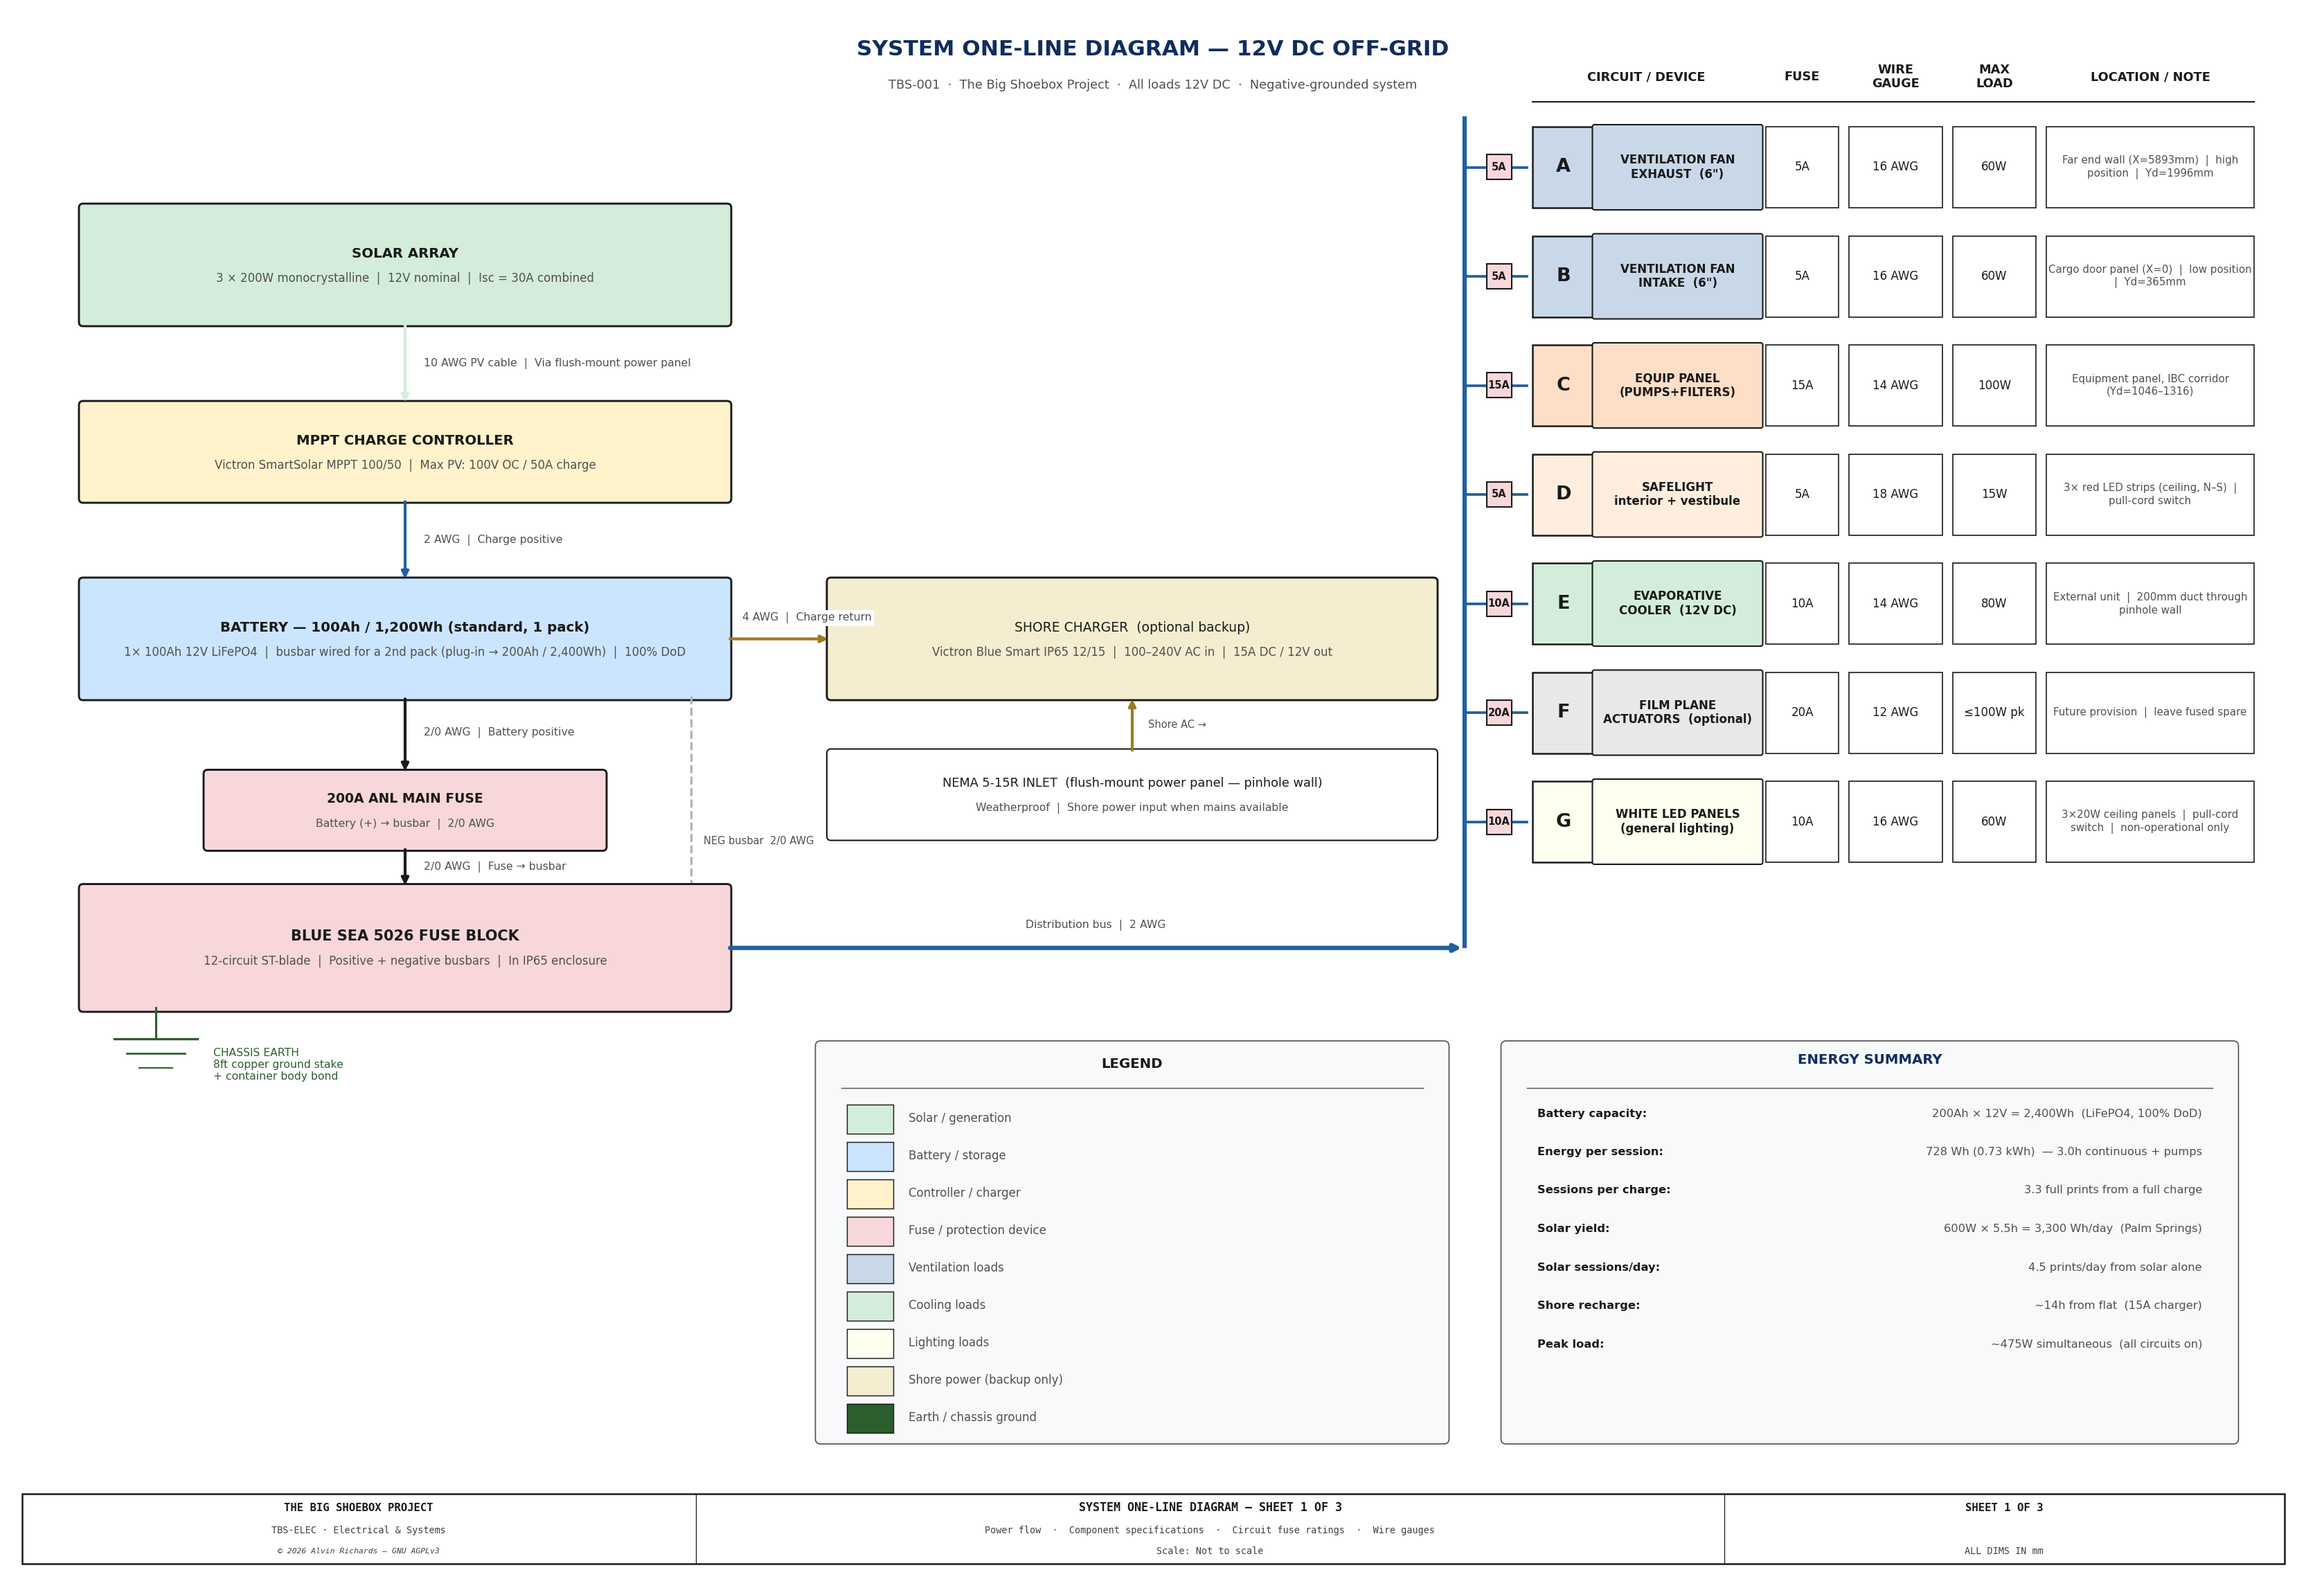
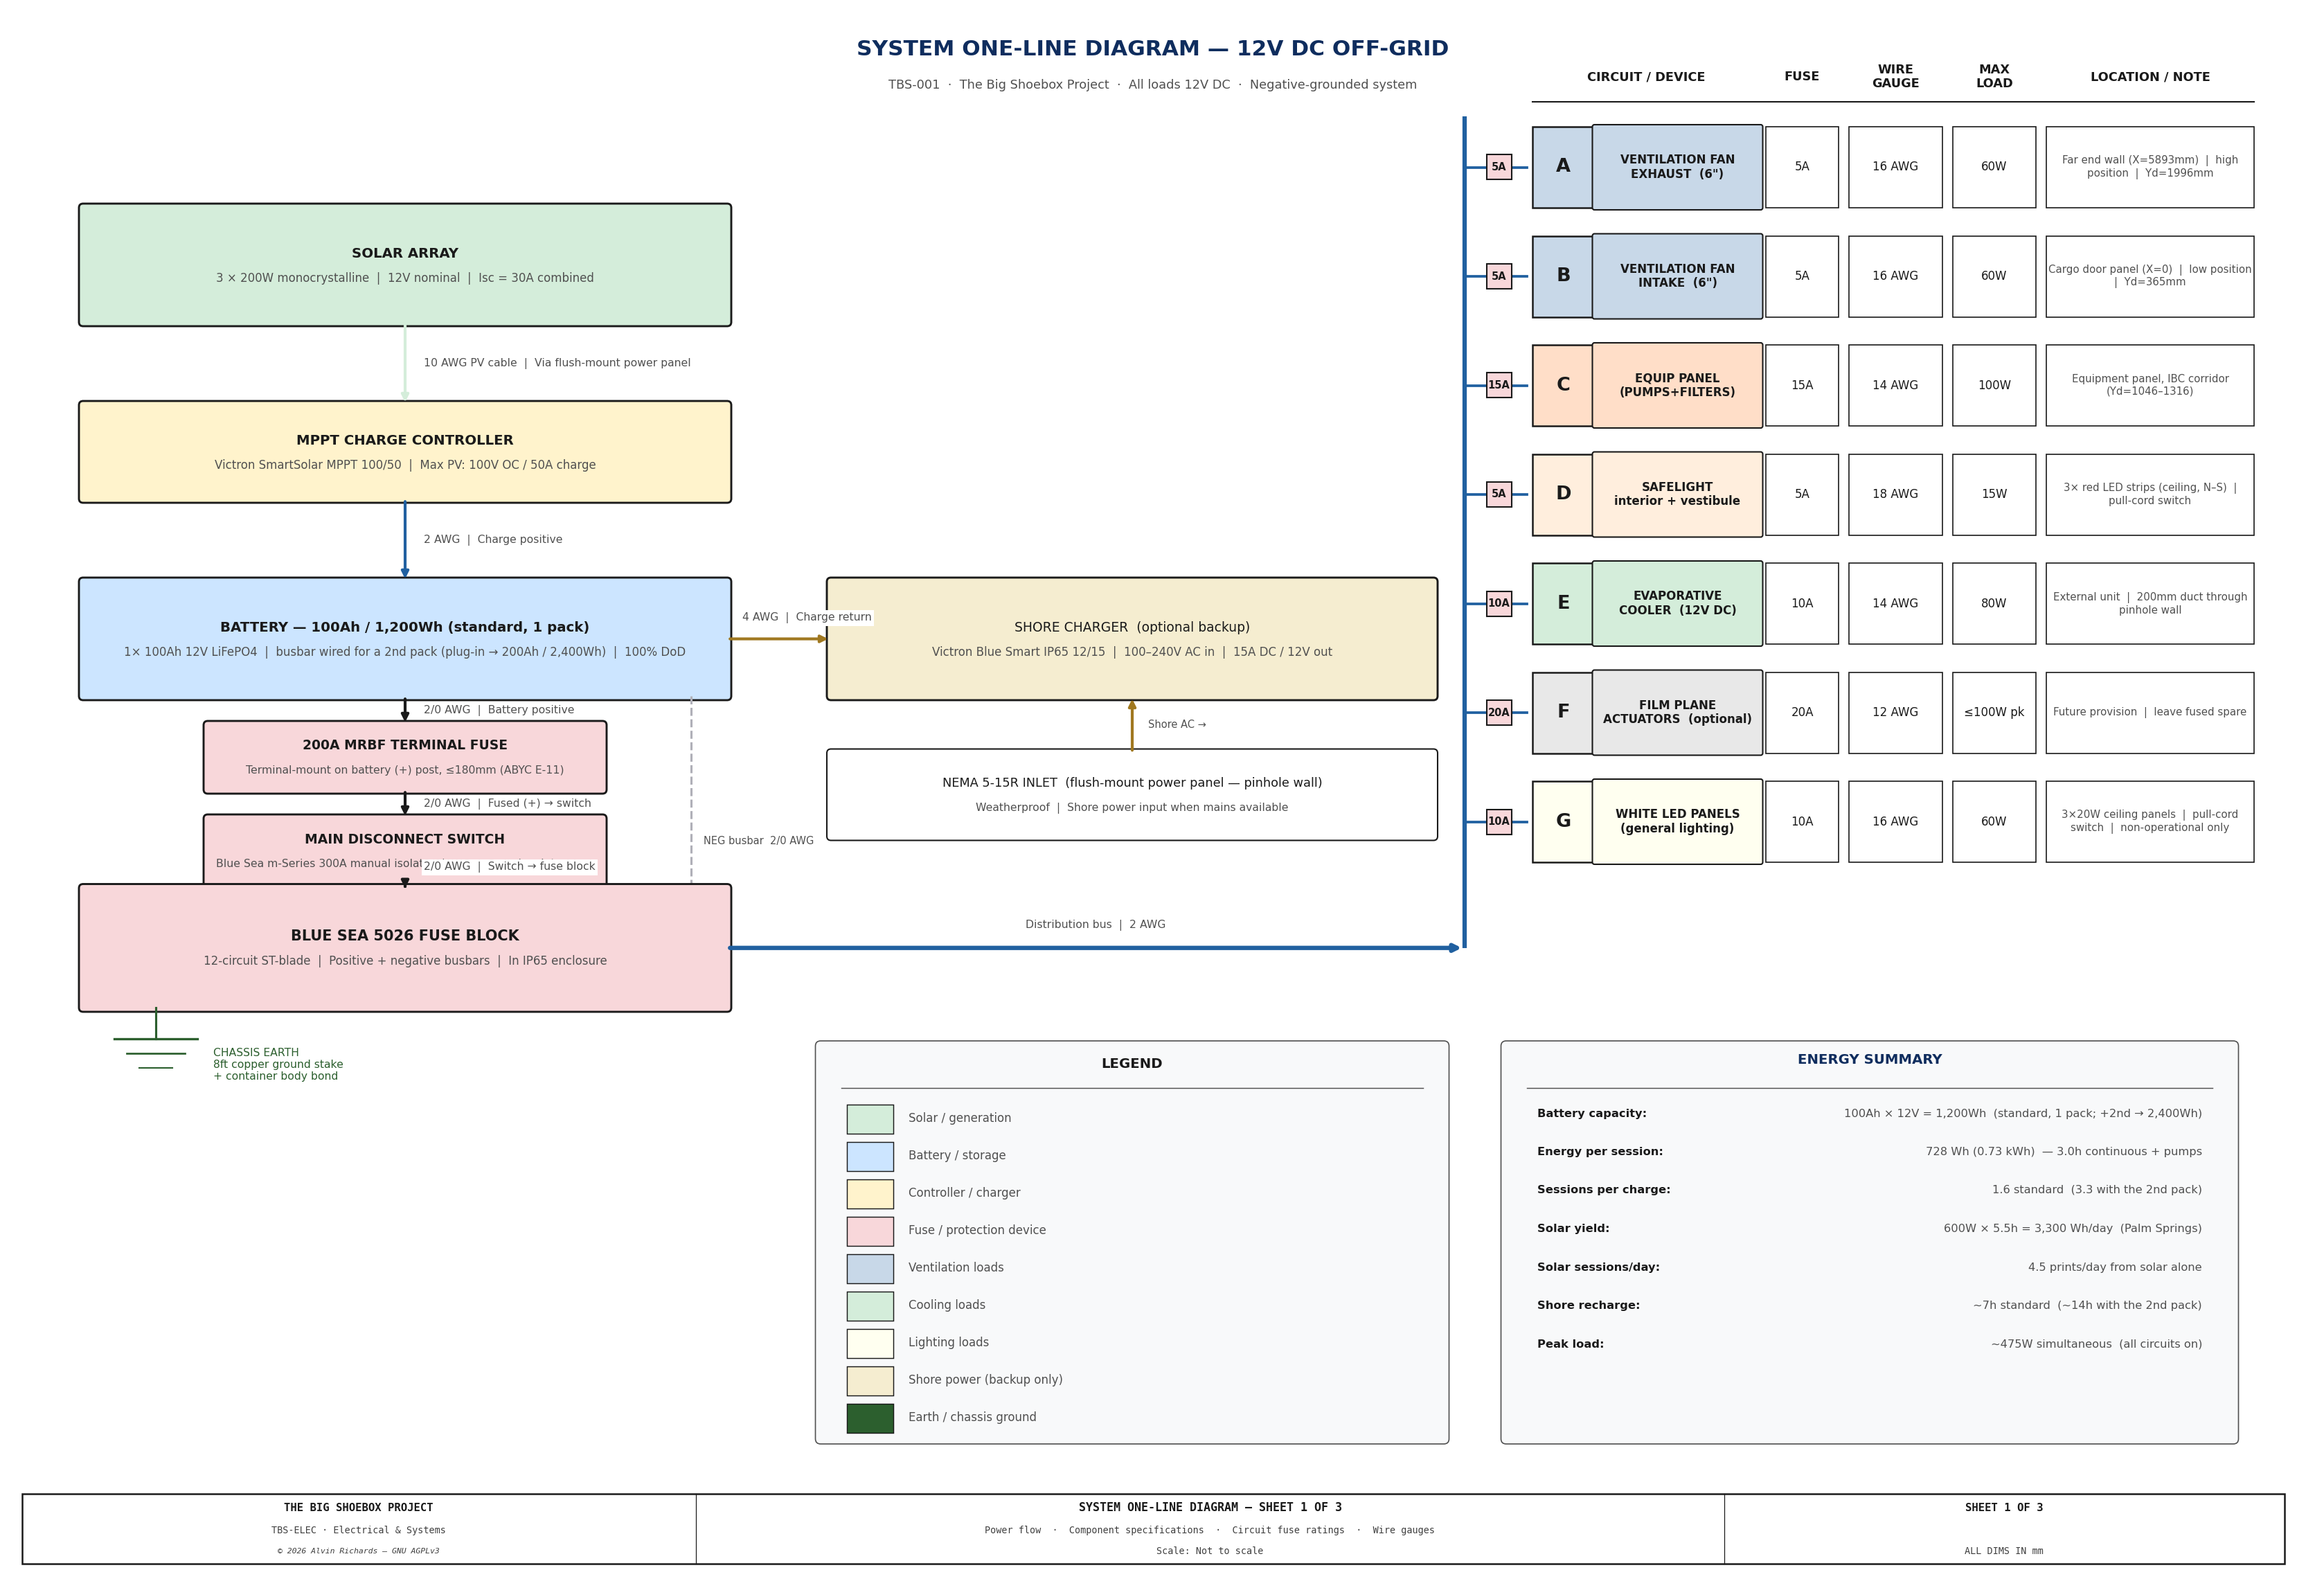
Electrical one-line: ANL main fuse -> MRBF terminal fuse + main disconnect switch
Aligns the one-line diagram with the Electrical Safety Report cascade (the BOM/§7.5
already specced these; the drawing + spec table lagged).

- Battery (+) protection chain redrawn as two stages: 200A MRBF terminal fuse on the
  battery + post (<=180mm, ABYC E-11) -> Blue Sea m-Series 300A main disconnect switch
  -> Blue Sea 5026 fuse block (was a single '200A ANL MAIN FUSE').
- Energy-summary panel de-staled to the 1-pack standard: battery 200Ah/2,400Wh ->
  100Ah/1,200Wh; sessions/charge 3.3 -> 1.6 standard (3.3 w/ 2nd pack); shore recharge
  ~14h -> ~7h standard (~14h w/ 2nd) — now consistent with §3.1/§5.3 and the battery box.
- electrical-report §7.1: main-enclosure bullet 200A main fuse -> terminal MRBF + main
  disconnect (xref §7.5); removed a duplicated sentence in the §8 cost note.

Changed region(s): [[0.0625, 0.436, 0.2811, 0.5605]]

diff --git a/src/generators/generate_electrical_diagram.py b/src/generators/generate_electrical_diagram.py
@@ -136,21 +136,29 @@ def draw_sheet1():
             color=C_STEEL, lw=1.5, linestyle="--", zorder=3)
     wlabel(ax, nb_x + 0.12, 7.0, "NEG busbar  2/0 AWG", size=7.0)
 
-    # 4. 200A ANL main fuse  y=6.95–7.65
-    rbox(ax, LX + 1.2, 6.95, LW - 2.4, 0.70,
-         "200A ANL MAIN FUSE",
-         "Battery (+) → busbar  |  2/0 AWG",
+    # 4. MRBF terminal fuse — on the battery (+) post, ≤180mm  y=7.50–8.12
+    rbox(ax, LX + 1.2, 7.50, LW - 2.4, 0.62,
+         "200A MRBF TERMINAL FUSE",
+         "Terminal-mount on battery (+) post, ≤180mm (ABYC E-11)",
          fc=C_WARN, ts=9.0, ss=7.5)
-    varrow(ax, CX, 8.4, 7.65, col=C_OUT)
-    wlabel(ax, CX + 0.18, 8.05, "2/0 AWG  |  Battery positive")
+    varrow(ax, CX, 8.4, 8.12, col=C_OUT)
+    wlabel(ax, CX + 0.18, 8.26, "2/0 AWG  |  Battery positive")
+
+    # 4b. Main battery disconnect switch  y=6.60–7.22
+    rbox(ax, LX + 1.2, 6.60, LW - 2.4, 0.62,
+         "MAIN DISCONNECT SWITCH",
+         "Blue Sea m-Series 300A manual isolator  |  emergency / maintenance",
+         fc=C_WARN, ts=9.0, ss=7.5)
+    varrow(ax, CX, 7.50, 7.22, col=C_OUT)
+    wlabel(ax, CX + 0.18, 7.36, "2/0 AWG  |  Fused (+) → switch")
 
     # 5. Fuse block  y=5.4–6.55
     rbox(ax, LX, 5.4, LW, 1.15,
          "BLUE SEA 5026 FUSE BLOCK",
          "12-circuit ST-blade  |  Positive + negative busbars  |  In IP65 enclosure",
          fc=C_WARN, ts=10.0, ss=8.0)
-    varrow(ax, CX, 6.95, 6.55, col=C_OUT)
-    wlabel(ax, CX + 0.18, 6.75, "2/0 AWG  |  Fuse → busbar")
+    varrow(ax, CX, 6.60, 6.55, col=C_OUT)
+    wlabel(ax, CX + 0.18, 6.75, "2/0 AWG  |  Switch → fuse block")
 
     # Ground symbol below fuse block
     gx = LX + 0.7
@@ -229,12 +237,12 @@ def draw_sheet1():
     # NOTE: these values must match calculate_energy_budget.py and
     # electrical-report.md §3.1.  Update all three when specs change.
     summary = [
-        ("Battery capacity",    "200Ah × 12V = 2,400Wh  (LiFePO4, 100% DoD)"),
+        ("Battery capacity",    "100Ah × 12V = 1,200Wh  (standard, 1 pack; +2nd → 2,400Wh)"),
         ("Energy per session",  "728 Wh (0.73 kWh)  — 3.0h continuous + pumps"),
-        ("Sessions per charge", "3.3 full prints from a full charge"),
+        ("Sessions per charge", "1.6 standard  (3.3 with the 2nd pack)"),
         ("Solar yield",         "600W × 5.5h = 3,300 Wh/day  (Palm Springs)"),
         ("Solar sessions/day",  "4.5 prints/day from solar alone"),
-        ("Shore recharge",      "~14h from flat  (15A charger)"),
+        ("Shore recharge",      "~7h standard  (~14h with the 2nd pack)"),
         ("Peak load",           "~475W simultaneous  (all circuits on)"),
     ]
     for k, (param, val) in enumerate(summary):

diff --git a/electrical-report.md b/electrical-report.md
@@ -199,7 +199,7 @@ The switches are positioned near the electrical panel, accessible from the near 
 IP65 weatherproof enclosure, 300 × 200 × 130mm, mounted on the interior pinhole wall face (Y=0, X≈2050–2350mm). Contains:
 - Victron MPPT controller (or external, hardwired)
 - Blue Sea 5026 12-circuit fuse block with busbars
-- Battery positive and negative busbars with 200A main fuse
+- Battery positive and negative busbars, fed from the battery through a terminal-mount **200A MRBF fuse** (on the battery + post, ≤180mm) and a **main disconnect switch** (Blue Sea m-Series 300A) — see §7.5
 - Shore charger output terminals
 
 **Sheet 2 — Container Wiring Layout**
@@ -312,7 +312,7 @@ All US/SoCal sources. Prices approximate as of 2026.
 | **Cooling (evap cooler)** | | | **~$280** |
 | **Systems grand total** | | | **~$2,520** |
 
-*Electrical system total is the **standard 1-pack build** and matches the consolidated [Master Shopping List §6](master-shopping-list.md) (Solar & battery $1,295 + Distribution & wiring $745 = $2,040, the authoritative electrical BOM). The optional 2nd battery pack adds +$350. It includes ~$145 of circuit-protection / wet-zone-sealing hardware added per the [Electrical Safety Report](electrical-safety-report.md) §5 (disconnect switch, terminal-mount fuse, sealed connectors, bonding, grommets). It includes ~$145 of circuit-protection / wet-zone-sealing hardware added per the [Electrical Safety Report](electrical-safety-report.md) §5 (disconnect switch, terminal-mount fuse, sealed connectors, bonding, grommets).*
+*Electrical system total is the **standard 1-pack build** and matches the consolidated [Master Shopping List §6](master-shopping-list.md) (Solar & battery $1,295 + Distribution & wiring $745 = $2,040, the authoritative electrical BOM). The optional 2nd battery pack adds +$350. It includes ~$145 of circuit-protection / wet-zone-sealing hardware added per the [Electrical Safety Report](electrical-safety-report.md) §5 (disconnect switch, terminal-mount fuse, sealed connectors, bonding, grommets).*
 
 ## 9. Maintenance
 
